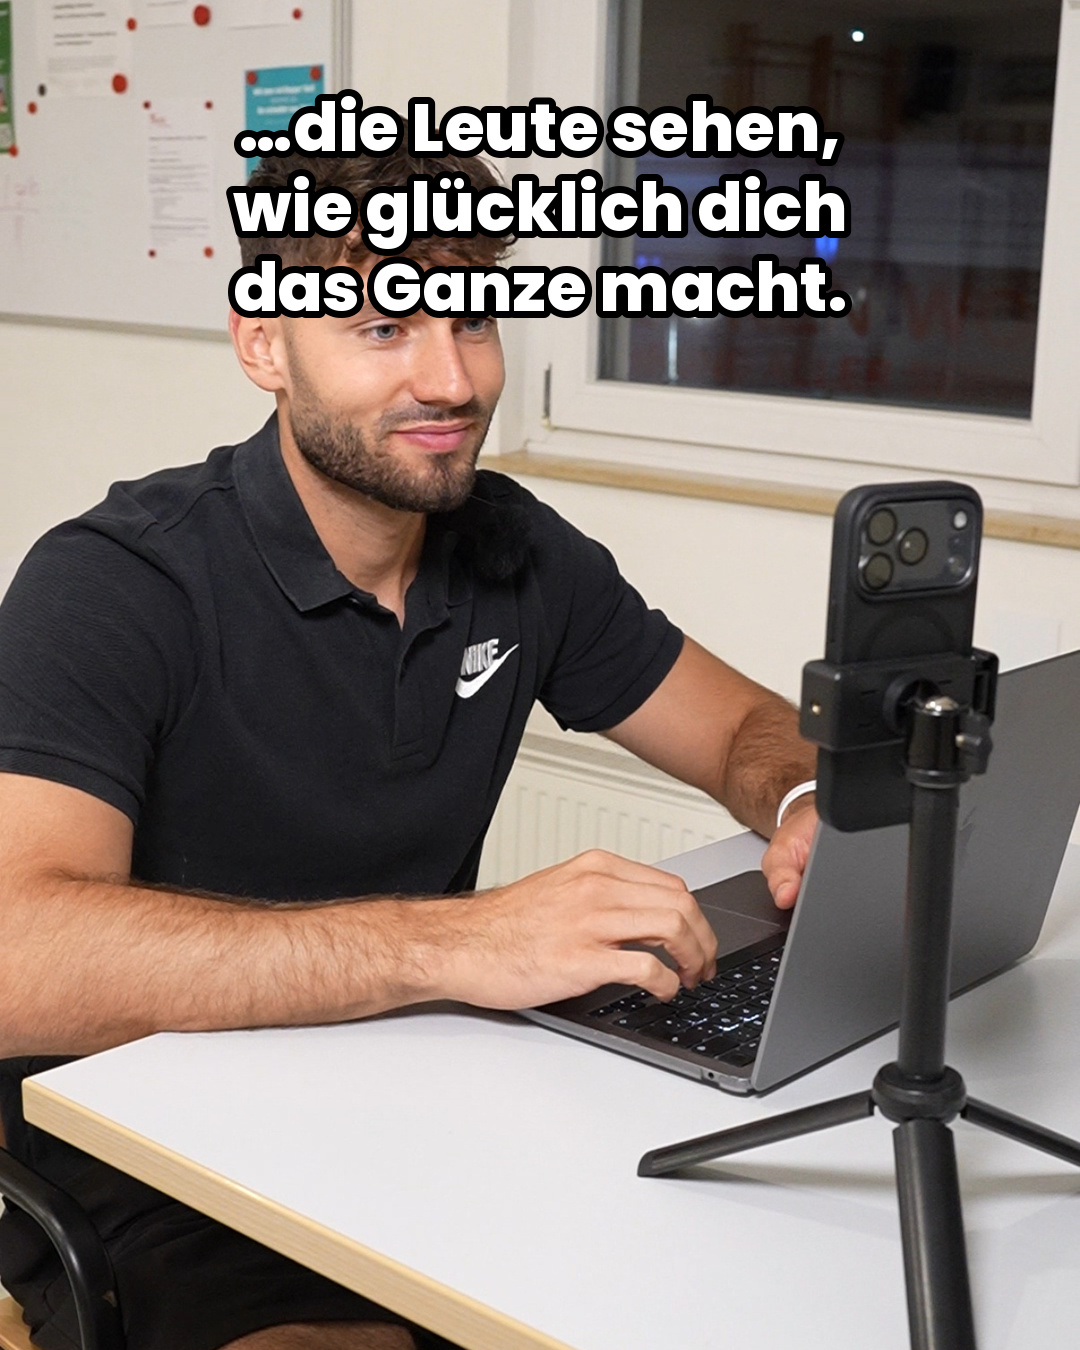
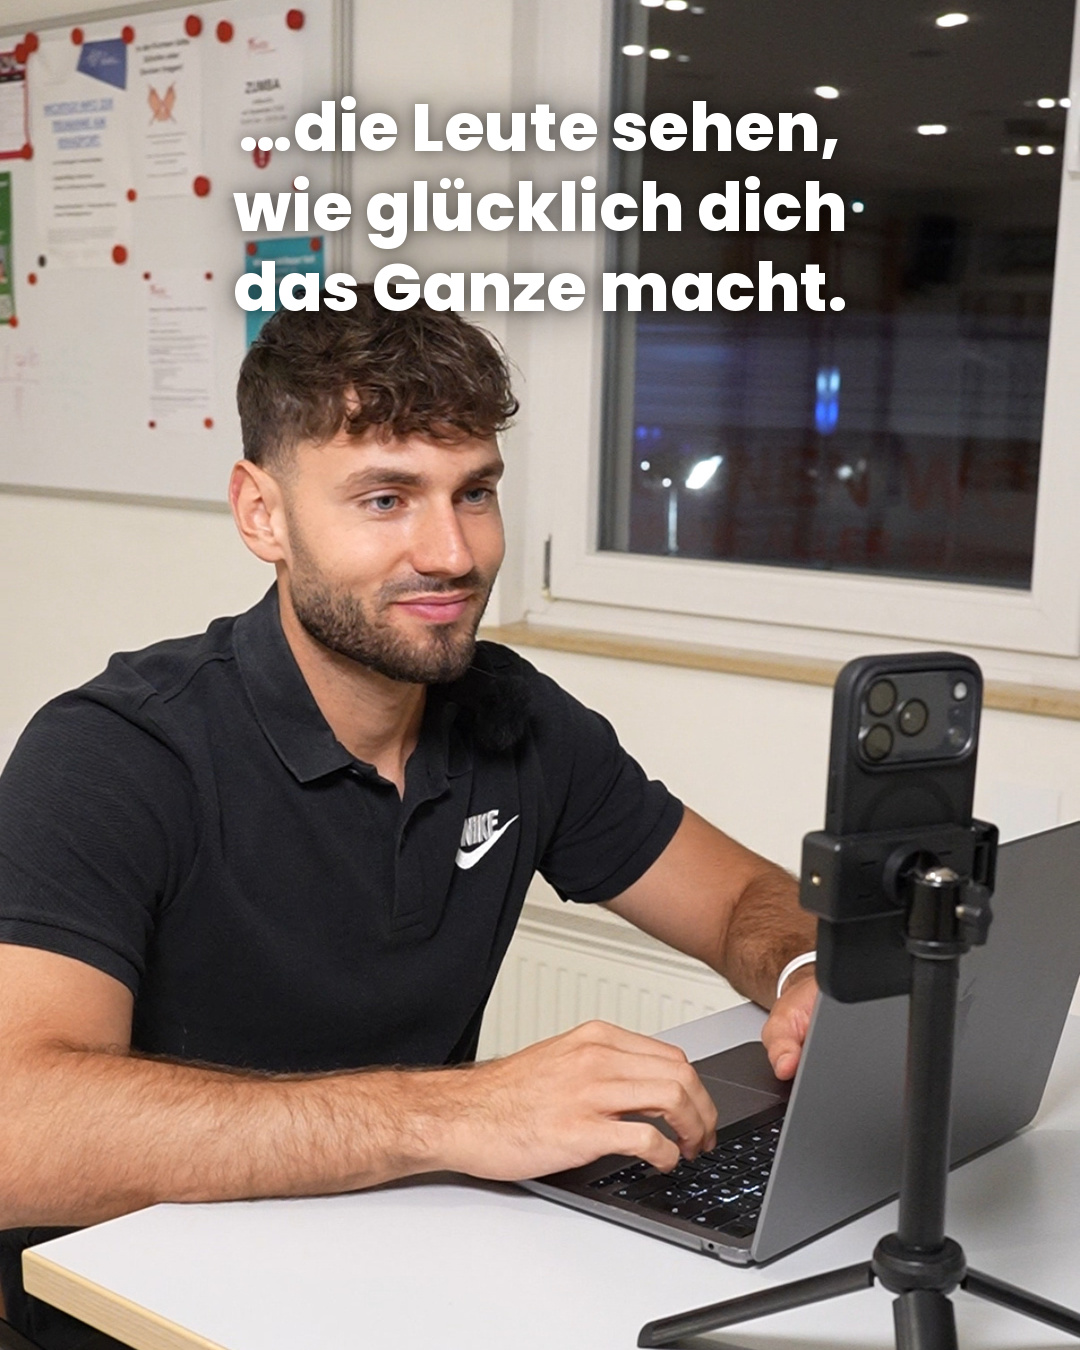
Cringe-Post: Schrift ohne Kontur, neuer Cover-Text, Gesicht bleibt frei
- Keine schwarze Kontur mehr um die Schrift, nur weiss. Damit der Text auf
  hellen Stellen lesbar bleibt, liegt jetzt ein weicher, breit gestreuter
  Schatten darunter; als Rand ist er nicht zu sehen.
- Cover beginnt mit "Ja, auf Instagram zu posten, als waere man Influencer,
  ist cringe..." und unten "Aber nur solange, bis...".
- Kein Text mehr vor Aarons Gesicht: auf Slide 5 ist der Ausschnitt nach
  oben gezogen, damit die Kopfzeile ueber ihm liegt statt auf ihm.

Claude-Session: https://claude.ai/code/session_01HQCAC1gXM5ymEH3L17w63v

diff --git a/posts/spezial/es-ist-cringe/bau.py b/posts/spezial/es-ist-cringe/bau.py
@@ -37,8 +37,13 @@ def umbrechen(d, text, font, max_breite):
     return zeilen
 
 
-def block(blatt, text, oben, groesse=62, breite=0.86, mitte_x=0.5, kontur=7):
-    """Zeichnet einen zentrierten Textblock. `oben` ist der y-Anteil der ersten Zeile."""
+def block(blatt, text, oben, groesse=62, breite=0.86, mitte_x=0.5, kontur=0):
+    """Zentrierter Textblock, weiss ohne Rahmen.
+
+    Statt einer Kontur liegt ein weicher, breit gestreuter Schatten unter der
+    Schrift. Er ist als Rand nicht zu sehen, haelt den Text aber auch auf
+    hellen Stellen lesbar.
+    """
     d = ImageDraw.Draw(blatt)
     f = ImageFont.truetype(FONT, groesse)
     max_b = int(W * breite)
@@ -46,12 +51,25 @@ def block(blatt, text, oben, groesse=62, breite=0.86, mitte_x=0.5, kontur=7):
     for absatz in text.split("\n"):
         zeilen += umbrechen(d, absatz, f, max_b) if absatz.strip() else [""]
     zeilenhoehe = int(groesse * 1.22)
+
+    maske = Image.new("L", blatt.size, 0)
+    md = ImageDraw.Draw(maske)
+    y = int(H * oben)
+    for zeile in zeilen:
+        if zeile:
+            b = md.textlength(zeile, font=f)
+            md.text((W * mitte_x - b / 2, y), zeile, font=f, fill=255)
+        y += zeilenhoehe
+    for radius, deckkraft in ((max(8, groesse // 3), 150), (max(3, groesse // 9), 120)):
+        ebene = maske.filter(ImageFilter.GaussianBlur(radius))
+        blatt.paste(Image.new("RGB", blatt.size, (0, 0, 0)), (0, 0),
+                    ebene.point(lambda v: v * deckkraft // 255))
+
     y = int(H * oben)
     for zeile in zeilen:
         if zeile:
             b = d.textlength(zeile, font=f)
-            d.text((W * mitte_x - b / 2, y), zeile, font=f, fill=WEISS,
-                   stroke_width=kontur, stroke_fill=SCHWARZ)
+            d.text((W * mitte_x - b / 2, y), zeile, font=f, fill=WEISS)
         y += zeilenhoehe
     return y
 
@@ -69,7 +87,7 @@ def slide(foto, ziel, oben_text, unten_text="", mitte=(0.5, 0.5),
             zeilen += umbrechen(d, absatz, f, int(W * breite_unten)) if absatz.strip() else [""]
         hoehe = len(zeilen) * int(gr_unten * 1.22)
         start = unten_y if unten_y is not None else (H - 80 - hoehe) / H
-        block(blatt, unten_text, start, gr_unten, breite_unten, unten_x, 6)
+        block(blatt, unten_text, start, gr_unten, breite_unten, unten_x)
     blatt.save(ziel, quality=95, subsampling=0)
     print("  ", os.path.basename(ziel))
 
@@ -133,9 +151,9 @@ def nachrichten(foto, ziel, kopf_text, blasen, mitte=(0.5, 0.5), gr_oben=64,
 
 
 slide("DSC06534.jpeg", os.path.join(OUT, "01.jpg"),
-      "Es ist cringe,\nSachen im Internet\nzu posten.",
-      "Bis…", mitte=(0.5, 0.45), gr_oben=74, gr_unten=66, oben_y=0.06,
-      unten_y=0.78, unten_x=0.5)
+      "Ja, auf Instagram zu\nposten, als wäre man\nInfluencer, ist cringe…",
+      "Aber nur solange, bis…", mitte=(0.5, 0.45), gr_oben=60, gr_unten=52,
+      oben_y=0.055, unten_y=0.80, unten_x=0.5)
 
 nachrichten("DSC06671.jpeg", os.path.join(OUT, "02.jpg"),
             "…dir Kunden täglich\nsolche Nachrichten\nschicken.",
@@ -158,7 +176,7 @@ slide("DSC06621.jpeg", os.path.join(OUT, "04.jpg"),
 
 slide("laptop-stativ-lachen.jpeg", os.path.join(OUT, "05.jpg"),
       "…die Leute sehen,\nwie glücklich dich\ndas Ganze macht.",
-      mitte=(0.5, 0.42), gr_oben=66, oben_y=0.06)
+      mitte=(0.5, 0.12), gr_oben=66, oben_y=0.06)
 
 slide("DSC06785.jpeg", os.path.join(OUT, "06.jpg"),
       "Den ersten Schritt zu\nmachen wird immer\nunangenehm sein.",

diff --git a/posts/spezial/es-ist-cringe/post.md b/posts/spezial/es-ist-cringe/post.md
@@ -1,10 +1,17 @@
 # Es ist cringe, bis…
 
-Spezialformat, **nicht** das Wochen-Layout. Nachgebaut nach Aarons eigenen
-Storytelling-Slides: weiße Fettschrift (Poppins ExtraBold) mit schwarzer
-Kontur über dem formatfüllenden Foto, ein Block oben, auf Cover und
+Spezialformat, **nicht** das Wochen-Layout. Weiße Fettschrift (Poppins
+ExtraBold) über dem formatfüllenden Foto, ein Block oben, auf Cover und
 Abschluss zusätzlich einer unten. Kein Zähler, keine Akzentfarbe, kein
 blaues Kursiv-Wort.
+
+**Keine Kontur um die Schrift** (Stand 04.11., auf Aarons Wunsch). Damit der
+Text trotzdem auf hellen Stellen lesbar bleibt, liegt ein weicher, breit
+gestreuter Schatten darunter — als Rand ist er nicht zu sehen.
+
+**Kein Text vor Aarons Gesicht.** Die Ausschnitte sind so gesetzt, dass Kopf
+und Gesicht frei bleiben; auf Slide 5 ist der Ausschnitt dafür nach oben
+gezogen.
 
 Inhalt kommt aus Aarons Notiz vom 03.11.
 
@@ -12,7 +19,7 @@ Inhalt kommt aus Aarons Notiz vom 03.11.
 
 | # | Text | Foto | Nachrichten |
 |---|---|---|---|
-| 1 | Es ist cringe, Sachen im Internet zu posten. / Bis… | Von hinten am Brunnen (`DSC06534`) | — |
+| 1 | Ja, auf Instagram zu posten, als wäre man Influencer, ist cringe… / Aber nur solange, bis… | Von hinten am Brunnen (`DSC06534`) | — |
 | 2 | …dir Kunden täglich solche Nachrichten schicken. | Am Handy vor dem Schloss (`DSC06671`) | 3 kurze Blasen |
 | 3 | …du immer wieder hörst: „Du hast mein Leben verändert." | Sprachnachricht am Laptop (`laptop-handy-sprechen`) | 1 lange Blase |
 | 4 | …die Leute, die dich anfangs ausgelacht haben, dich nach deinem Rat fragen. | Vor dem Schloss, Blick in die Kamera (`DSC06621`) | — |
@@ -52,7 +59,7 @@ oben und unten abgeschnitten).
 
 ## Caption
 
-Es ist cringe, Sachen im Internet zu posten.
+Ja, auf Instagram zu posten, als wäre man Influencer, ist cringe.
 
 Das hab ich mir selbst zwei Jahre lang gesagt. Und ehrlich: Am Anfang war es das auch. Niemand schaut zu, ein paar Leute machen Witze, und du fragst dich jedes Mal, ob das hier jemals irgendwohin führt.
 
